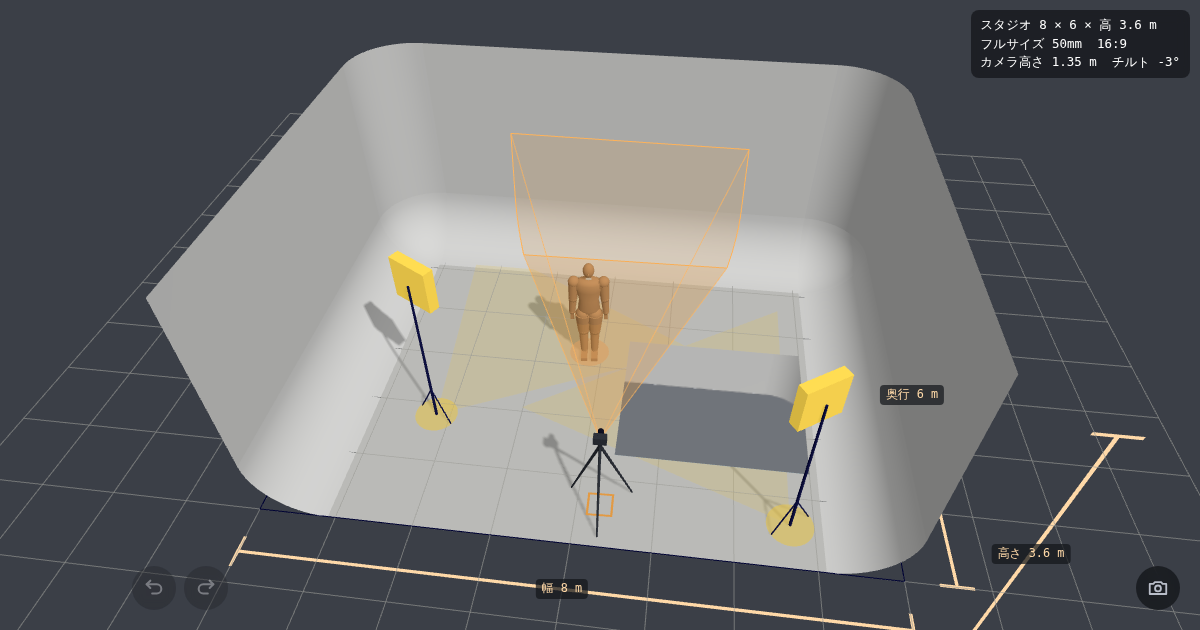
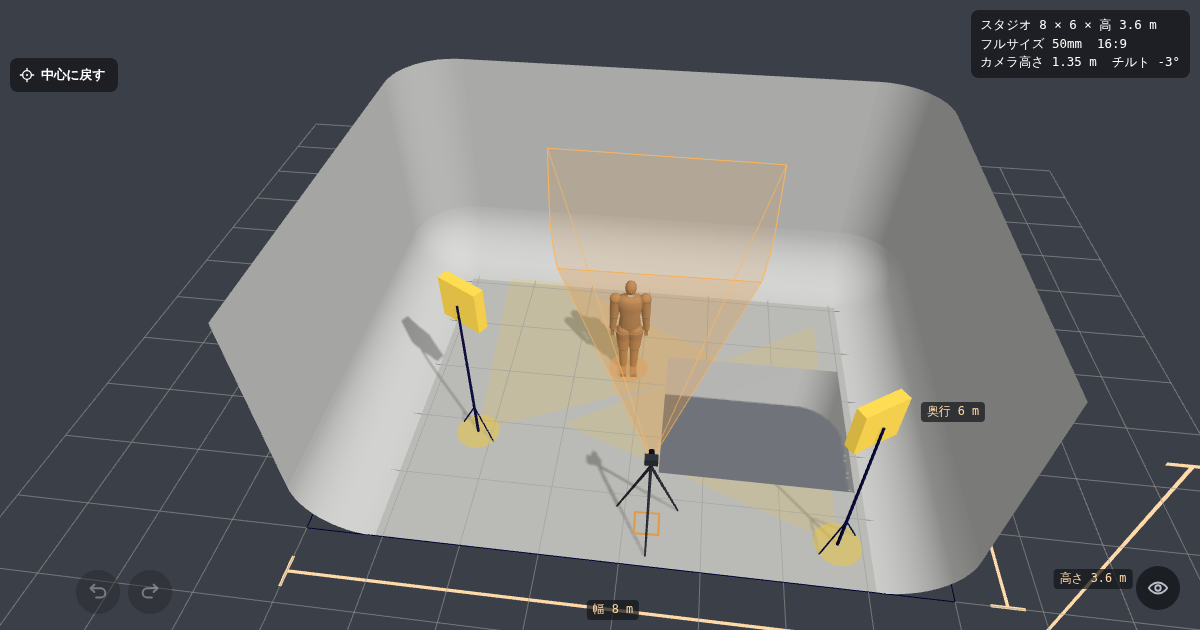
studio3d: 用紙の情報欄を小さく、つまむ拡大の直し、角度の丸め、ほか
- 用紙の情報欄を 6.2pt・行間 1.35 まで詰め、右の欄を 90mm → 70mm に。
  そのぶん図が大きくなる。PDF_AREA と .pviews の flex は同じ値であること。
- **スマホでつまんでも拡大できない**の原因は長押しだった。1 本目を置いた
  550ms 後にコンテキストメニューが開き、pointers.clear() でつまむ操作が
  丸ごと消えていた。2 本目が来たら長押しを取り消す。
- 拡大縮小を zoomAt() に集約し、**指（カーソル）の下の点を動かさない**ように
  した。画面の真ん中を軸にすると、端をつまんだ瞬間に見ていたところが枠の外へ
  逃げる。ホイールも同じ関数を通す。
- カメラの角度表示を小数第 1 位までに（パネル・右上・用紙）。
- スタジオのプリセットを一回り大きく（6×5×3.5 / 10×8×4.5 / 15×12×6）。
  起動時の既定も 10×8×4.5 に。6 畳の部屋は実寸なのでそのまま。
- 左下の＋と設定を同じ大きさで縦並びにし、下が設定。取り消し・やり直しは
  設定の横へ。
- **消したあと別の行のゴミ箱が赤くなったまま**を修正。行が繰り上がって
  カーソルの下に来ただけなので、一覧を組み直した直後はホバーを切り、
  指かカーソルが動いてから効かせる。指で触る端末では最初から出さない。

テスト追加: ゴミ箱が赤くならないこと、ボタンの並び、プリセットの寸法、
角度が小数第 1 位まで、物の上に指を置いたままでも 2 本指で拡大できること。
辺ごとの寸法の確認は、ラベルが押し合わない素の場面へ移した。全 238 通過。

Claude-Session: https://claude.ai/code/session_015cBXVLcRAFnFdCR6hxRHzV

diff --git a/index.html b/index.html
@@ -44,7 +44,7 @@ html,body{height:100%;margin:0;overflow:hidden}
 body{background:var(--bg);color:var(--ink);font-family:"Noto Sans JP","Hiragino Sans","Yu Gothic",sans-serif;font-size:15px;line-height:1.5}
 #app{position:fixed;inset:0;display:grid;grid-template-columns:340px 1fr;grid-template-rows:1fr}
 #view{position:relative;background:var(--viewport);touch-action:none;overflow:hidden}
-#view canvas{display:block;width:100%;height:100%}
+#view canvas{display:block;width:100%;height:100%;touch-action:none}
 #view.drop::after{content:"ここに落とすと取り込みます";position:absolute;inset:8px;border:3px dashed var(--accent);border-radius:10px;display:flex;align-items:center;justify-content:center;color:#fff;background:rgba(20,22,26,.55);font-weight:700;z-index:6;pointer-events:none}
 #panel{background:var(--panel);border-right:1px solid var(--rule);display:flex;flex-direction:column;min-height:0;z-index:2}
 /* パネルは一回り小さく。rem と px が混在しているので、まとめて縮めるのは zoom がいちばん確実 */
@@ -62,12 +62,12 @@ body{background:var(--bg);color:var(--ink);font-family:"Noto Sans JP","Hiragino 
 #pipbtn.on{background:var(--accent);color:#fff}
 #pipbtn:focus-visible{outline:3px solid #fff;outline-offset:2px}
 body.viewer #pipbtn{display:none}
-#undobtn,#redobtn{position:absolute;bottom:20px;z-index:4;width:44px;height:44px;border:0;border-radius:50%;background:rgba(20,22,26,.8);color:#fff;cursor:pointer;display:flex;align-items:center;justify-content:center;padding:0;backdrop-filter:blur(6px)}
-#undobtn{left:132px}#redobtn{left:184px}
+#undobtn,#redobtn{position:absolute;bottom:16px;z-index:4;width:44px;height:44px;border:0;border-radius:50%;background:rgba(20,22,26,.8);color:#fff;cursor:pointer;display:flex;align-items:center;justify-content:center;padding:0;backdrop-filter:blur(6px)}
+#undobtn{left:76px}#redobtn{left:128px}
 #undobtn:disabled,#redobtn:disabled{opacity:.32;cursor:default}
 #undobtn:focus-visible,#redobtn:focus-visible{outline:3px solid #fff;outline-offset:2px}
 body.viewer #undobtn,body.viewer #redobtn{display:none}
-#gear{position:absolute;left:80px;bottom:20px;z-index:4;width:44px;height:44px;border:0;border-radius:50%;background:rgba(20,22,26,.8);color:#fff;cursor:pointer;display:flex;align-items:center;justify-content:center;padding:0;backdrop-filter:blur(6px)}
+#gear{position:absolute;left:12px;bottom:12px;z-index:4;width:52px;height:52px;border:0;border-radius:50%;background:rgba(20,22,26,.8);color:#fff;cursor:pointer;display:flex;align-items:center;justify-content:center;padding:0;backdrop-filter:blur(6px)}
 #gear.on{background:var(--accent)}
 #gear:focus-visible{outline:3px solid #fff;outline-offset:2px}
 body.viewer #gear{display:none}
@@ -118,7 +118,10 @@ input[type=color]{width:56px;height:44px;border:1px solid var(--rule);border-rad
 .itemrow.hidden-item .eye{color:var(--muted)}
 .itemrow .ico{flex:0 0 36px;border:1px solid var(--rule);background:var(--panel);color:var(--ink2);border-radius:8px;cursor:pointer;display:flex;align-items:center;justify-content:center;padding:0}
 .itemrow .ico.on{color:var(--accent);border-color:var(--accent)}
-.itemrow .ico.trash:hover{color:var(--danger)}
+/* 消したあと行が繰り上がると、カーソルの下に来た別の行のゴミ箱が赤くなり、
+   「関係ない行が消える寸前」に見える。指で触る端末では触ったあとずっと赤い。
+   一覧を組み直したらいったん切り、指やカーソルが動いてから効かせる */
+@media (hover: hover){ body:not(.nohover) .itemrow .ico.trash:hover{color:var(--danger)} }
 .itemrow .grip{flex:0 0 20px;display:flex;align-items:center;justify-content:center;color:var(--muted);cursor:grab;touch-action:none;user-select:none;-webkit-user-select:none}
 .itemrow.dragging{opacity:.5}
 .itemrow.dropbefore{box-shadow:0 -3px 0 -1px var(--accent)}
@@ -157,7 +160,8 @@ input[type=color]{width:56px;height:44px;border:1px solid var(--rule);border-rad
 #pip .bar button:hover{background:rgba(255,255,255,.18)}
 #pip .body{position:absolute;left:0;right:0;top:24px;bottom:0;cursor:grab}
 #pip .grip{position:absolute;right:0;bottom:0;width:26px;height:26px;cursor:nwse-resize;background:linear-gradient(135deg,transparent 50%,rgba(255,255,255,.8) 50%);border-bottom-right-radius:4px}
-#addfab{position:absolute;left:12px;bottom:12px;z-index:4;width:56px;height:56px;border:0;border-radius:50%;background:var(--accent);color:#fff;font-size:1.9rem;line-height:1;cursor:pointer;box-shadow:0 4px 16px rgba(0,0,0,.4);display:flex;align-items:center;justify-content:center;padding:0}
+/* ＋ と設定は同じ大きさで縦並び。下が設定 */
+#addfab{position:absolute;left:12px;bottom:74px;z-index:4;width:52px;height:52px;border:0;border-radius:50%;background:var(--accent);color:#fff;font-size:1.8rem;line-height:1;cursor:pointer;box-shadow:0 4px 16px rgba(0,0,0,.4);display:flex;align-items:center;justify-content:center;padding:0}
 #addfab:active{transform:translateY(1px)}
 #addfab:focus-visible{outline:3px solid #fff;outline-offset:2px}
 body.viewer #addfab{display:none}
@@ -234,8 +238,8 @@ label.f2 textarea{resize:vertical;line-height:1.5}
 .pbody{flex:1;display:flex;gap:5mm;min-height:0;padding-top:3mm}
 .paper.portrait .pbody{flex-direction:column;gap:3mm}
 .pviews{display:grid;grid-template-columns:1fr 1fr;gap:4mm}
-.paper.landscape .pviews{flex:0 0 186mm}
-.paper.portrait .pviews{flex:0 0 146mm}
+.paper.landscape .pviews{flex:0 0 206mm}
+.paper.portrait .pviews{flex:0 0 156mm}
 .pv{position:relative;border:.8pt solid #9ca3af;background:#eceef1;overflow:hidden;cursor:move;touch-action:none}
 .pv[data-pane="cam"]{cursor:default}
 .pvin{position:absolute;inset:0;transform-origin:center center}
@@ -248,15 +252,15 @@ label.f2 textarea{resize:vertical;line-height:1.5}
 .pside{flex:1;display:flex;flex-direction:column;gap:3mm;min-width:0}
 .paper.portrait .pside{flex:1;flex-direction:row;gap:4mm}
 .pbox{border:.8pt solid #9ca3af;display:flex;flex-direction:column;min-height:0}
-.pbox>h4{margin:0;font-size:7pt;font-weight:700;letter-spacing:.1em;background:#e5e7eb;color:#374151;padding:1mm 2mm;border-bottom:.4pt solid #9ca3af}
-.pbox .inner{padding:1.5mm 2mm;font-size:8pt;line-height:1.55}
-.prow{display:flex;justify-content:space-between;gap:3mm;border-bottom:.3pt dotted #b6bcc6;padding:.5mm 0}
+.pbox>h4{margin:0;font-size:5.8pt;font-weight:700;letter-spacing:.08em;background:#e5e7eb;color:#374151;padding:.7mm 1.5mm;border-bottom:.4pt solid #9ca3af}
+.pbox .inner{padding:1mm 1.5mm;font-size:6.2pt;line-height:1.35}
+.prow{display:flex;justify-content:space-between;gap:2mm;border-bottom:.3pt dotted #b6bcc6;padding:.25mm 0}
 .prow:last-child{border-bottom:0}
 .prow .k{color:#6b7280;white-space:nowrap}
 .prow .v{font-weight:700;text-align:right}
-.pmemo{flex:1;min-height:18mm}
-.pmemo .inner{flex:1;white-space:pre-wrap;font-size:8pt;line-height:2.1;
-  background-image:repeating-linear-gradient(#fff 0 calc(2.1em - .3pt), #dfe3e9 calc(2.1em - .3pt) 2.1em)}
+.pmemo{flex:1;min-height:14mm}
+.pmemo .inner{flex:1;white-space:pre-wrap;font-size:6.6pt;line-height:2.2;
+  background-image:repeating-linear-gradient(#fff 0 calc(2.2em - .3pt), #dfe3e9 calc(2.2em - .3pt) 2.2em)}
 .pfoot{flex:none;padding-top:1.5mm;font-size:6.5pt;color:#9ca3af;display:flex;justify-content:space-between}
 @media print{
   html,body{overflow:visible !important;height:auto !important;background:#fff !important}
@@ -278,7 +282,10 @@ label.f2 textarea{resize:vertical;line-height:1.5}
 @media (max-width:760px){
   #addpop,#namedlg{align-items:flex-end;padding:0}
   #addpop .pop,#namedlg .pop{width:100%;max-height:80vh;border-radius:14px 14px 0 0}
-  #addfab{width:52px;height:52px;font-size:1.7rem}
+  #addfab{width:48px;height:48px;font-size:1.6rem;bottom:68px}
+  #gear{width:48px;height:48px}
+  #undobtn,#redobtn{width:40px;height:40px;bottom:16px}
+  #undobtn{left:70px}#redobtn{left:118px}
   #app{grid-template-columns:1fr;grid-template-rows:1fr auto}
   body.folded:not(.viewer) #app{grid-template-rows:1fr}
   #panel{border-right:0;border-top:1px solid var(--rule);order:2;max-height:46vh}
@@ -331,7 +338,7 @@ label.f2 textarea{resize:vertical;line-height:1.5}
         <h2>オフライン</h2>
         <div class="row"><button class="btn" id="offlinebtn">オフラインに保存</button></div>
         <p class="hint" id="offlinestat">現場で圏外でも開けるよう、この端末に丸ごと控えます。人物と車のモデルを含めて 13 MB ほど。</p>
-        <p class="colophon">Studio Planner v1.7.0<br>© 2026 寺村太一</p>
+        <p class="colophon">Studio Planner v1.7.1<br>© 2026 寺村太一</p>
       </div>
     </div>
   </div>
@@ -440,9 +447,9 @@ import { clone as skeletonClone } from 'three/addons/utils/SkeletonUtils.js';   
 
 // ---------- data ----------
 const PRESETS = [
-  {id:'s', name:'小スタジオ 5×4×3 m', w:5, d:4, h:3, cove:{back:false,left:false,right:false}},
-  {id:'m', name:'中スタジオ 8×6×4 m（白ホリ 奥）', w:8, d:6, h:4, cove:{back:true,left:false,right:false}},
-  {id:'l', name:'大スタジオ 12×10×5 m（白ホリ 奥+左右）', w:12, d:10, h:5, cove:{back:true,left:true,right:true}},
+  {id:'s', name:'小スタジオ 6×5×3.5 m', w:6, d:5, h:3.5, cove:{back:false,left:false,right:false}},
+  {id:'m', name:'中スタジオ 10×8×4.5 m（白ホリ 奥）', w:10, d:8, h:4.5, cove:{back:true,left:false,right:false}},
+  {id:'l', name:'大スタジオ 15×12×6 m（白ホリ 奥+左右）', w:15, d:12, h:6, cove:{back:true,left:true,right:true}},
   {id:'r', name:'6 畳の部屋 3.6×2.7×2.4 m', w:3.6, d:2.7, h:2.4, cove:{back:false,left:false,right:false}},
   {id:'custom', name:'数値で入力'},
 ];
@@ -480,6 +487,7 @@ const clamp = (v,a,b) => Math.min(b, Math.max(a, v));
 // rotations live in -180..180 so a slider has zero in the middle
 const norm = a => { const n = ((a % 360) + 360) % 360; return n > 180 ? n - 360 : n; };
 const fmt = v => Number.isInteger(v) ? String(v) : v.toFixed(2).replace(/0$/,'');
+const a1 = v => Math.round((+v || 0) * 10) / 10;      // 角度は小数第 1 位まで
 
 let state = defaultState();
 let selectedId = null;
@@ -493,7 +501,7 @@ function defaultState(){
     {id:'c1', type:'camera', x:0, z:2.4, y:1.3, rot:180, pitch:-6, roll:0, sensor:'ff', focal:35, aspect:'16:9'},
   ]};
   return {meta:{project:'', cut:cut.name, memo:cut.memo, frames:cut.frames},
-          studio:{w:8,d:6,h:4,cove:{back:true,left:true,right:true}},
+          studio:{w:10,d:8,h:4.5,cove:{back:true,left:true,right:true}},
           activeCam:cut.activeCam, items:cut.items, cuts:[cut], cutIx:0};
 }
 // ---------- カット ----------
@@ -1681,17 +1689,51 @@ function fitOrtho(){
 // 平行投影の 3 面はカメラを平行に動かし、パースは注視点を動かす（カメラは
 // applyOrbit がそこから組み立てる）。ズームと見る角度には触らない。
 const PAN_LIMIT = () => Math.max(state.studio.w, state.studio.d) * 2;
+// 行き過ぎて迷子にならないよう、動かせる範囲を世界の 2 倍で止める
+function clampView(){
+  const lim = PAN_LIMIT(), c = v => clamp(v, -lim, lim);
+  orbit.target.set(c(orbit.target.x), c(orbit.target.y), c(orbit.target.z));
+  planCam.position.x = c(planCam.position.x); planCam.position.z = c(planCam.position.z);
+  frontCam.position.x = c(frontCam.position.x); frontCam.position.y = c(frontCam.position.y);
+  sideCam.position.z = c(sideCam.position.z); sideCam.position.y = c(sideCam.position.y);
+}
+// 画面の向きベクトル。パースは注視点まわりで持つ
+function screenAxes(){
+  const dir = new THREE.Vector3().subVectors(orbit.target, persCam.position).normalize();
+  const right = new THREE.Vector3().crossVectors(dir, new THREE.Vector3(0,1,0)).normalize();
+  return {right, up: new THREE.Vector3().crossVectors(right, dir).normalize()};
+}
+const persPPU = r => 2 * r * Math.tan(THREE.MathUtils.degToRad(persCam.fov/2)) / Math.max(1, H);
+const orthoPPU = c => (c.right - c.left) / c.zoom / Math.max(1, W);
+// **指（カーソル）の下の点を動かさずに拡大縮小する。** 画面の真ん中を軸にすると、
+// 端をつまんだ瞬間に見ていたところが枠の外へ逃げていき、スマホでは特に狙えない。
+function zoomAt(mx, my, apply){
+  if (mainView === 'cam'){ apply(); needRender = true; return; }
+  const ox = mx - W/2, oy = my - H/2;
+  if (mainView === 'pers'){
+    const before = persPPU(orbit.radius);
+    apply();
+    const d = before - persPPU(orbit.radius), ax = screenAxes();
+    orbit.target.addScaledVector(ax.right, ox*d).addScaledVector(ax.up, -oy*d);
+    clampView(); applyOrbit();
+  } else {
+    const cam = mainCam(), before = orthoPPU(cam);
+    apply();
+    const d = before - orthoPPU(cam);
+    if (mainView === 'plan'){ planCam.position.x += ox*d; planCam.position.z += oy*d; }
+    else if (mainView === 'front'){ frontCam.position.x += ox*d; frontCam.position.y -= oy*d; }
+    else { sideCam.position.z -= ox*d; sideCam.position.y -= oy*d; }
+    clampView(); fitOrtho();
+  }
+  needRender = true;
+}
 function panView(dx, dy){
   if (mainView === 'cam' || (!dx && !dy)) return;
   const lim = PAN_LIMIT();
   if (mainView === 'pers'){
-    const k = 2 * orbit.radius * Math.tan(THREE.MathUtils.degToRad(persCam.fov/2)) / Math.max(1, H);
-    const dir = new THREE.Vector3().subVectors(orbit.target, persCam.position).normalize();
-    const right = new THREE.Vector3().crossVectors(dir, new THREE.Vector3(0,1,0)).normalize();
-    const up = new THREE.Vector3().crossVectors(right, dir).normalize();
-    orbit.target.addScaledVector(right, -dx*k).addScaledVector(up, dy*k);
-    orbit.target.set(clamp(orbit.target.x, -lim, lim), clamp(orbit.target.y, -lim, lim), clamp(orbit.target.z, -lim, lim));
-    applyOrbit();
+    const k = persPPU(orbit.radius), ax = screenAxes();
+    orbit.target.addScaledVector(ax.right, -dx*k).addScaledVector(ax.up, dy*k);
+    clampView(); applyOrbit();
   } else {
     const cam = mainCam(), spu = (cam.right - cam.left)/cam.zoom/Math.max(1, W);
     const c = v => clamp(v, -lim, lim);
@@ -1815,7 +1857,7 @@ function updateInfo(){
   let t = `スタジオ ${s.w} × ${s.d} × 高 ${s.h} m`;
   if (ci){
     const eq = equiv(ci), many = cams().length > 1;          // the name only earns its place with more than one
-    t += `\n${many ? camName(ci) + '  ' : ''}${sensorName(ci)} ${ci.focal}mm${eq?` (換算 ${eq}mm)`:''}  ${ci.aspect}\nカメラ高さ ${ci.y.toFixed(2)} m  ${ci.pitch? `チルト ${ci.pitch}°`:''}`;
+    t += `\n${many ? camName(ci) + '  ' : ''}${sensorName(ci)} ${ci.focal}mm${eq?` (換算 ${eq}mm)`:''}  ${ci.aspect}\nカメラ高さ ${ci.y.toFixed(2)} m  ${ci.pitch? `チルト ${a1(ci.pitch)}°`:''}`;
   }
   el.textContent = t;
   document.getElementById('pipname').textContent = ci ? camName(ci) : 'カメラ';
@@ -1897,6 +1939,9 @@ canvas.addEventListener('pointerdown', e => {
   // 中ボタンは画面の移動。既定のオートスクロールは止める
   if (e.button === 1){ e.preventDefault(); cancelLongPress(); drag = {panView:true}; return; }
   if (pointers.size === 2){ const [a,b] = [...pointers.values()];
+    // 2 本目が来たら長押しは取り消す。放っておくと 550ms でメニューが開き、
+    // pointers.clear() でつまむ操作が丸ごと消える（スマホで拡大できない原因）
+    cancelLongPress();
     pinch = {d0:Math.hypot(a.x-b.x,a.y-b.y), f0: camItem()?.focal, z0: planCam.zoom, r0: orbit.radius,
              cx:(a.x+b.x)/2, cy:(a.y+b.y)/2};
     drag = null; return; }
@@ -1940,11 +1985,12 @@ canvas.addEventListener('pointermove', e => {
     const [a,b] = [...pointers.values()]; const d = Math.hypot(a.x-b.x,a.y-b.y); const k = d/pinch.d0;
     if (mainView === 'cam'){ const ci = camItem(); if (ci && !viewerMode){ ci.focal = clamp(Math.round(pinch.f0*k), 10, 400); refreshCam(ci); } }
     else {
-      if (mainView === 'pers') orbit.radius = clamp(pinch.r0/k, 1.5, 80);
-      else setOrthoZoom(clamp(pinch.z0*k, 0.3, 6));
-      // つまむのと同時に、2 本の指の真ん中が動いたぶんだけ画面も動かす
       const mx = (a.x+b.x)/2, my = (a.y+b.y)/2;
-      panView(mx - pinch.cx, my - pinch.cy);
+      zoomAt(mx, my, () => {                     // 指の真ん中の下にあるものは動かさない
+        if (mainView === 'pers') orbit.radius = clamp(pinch.r0/k, 1.5, 80);
+        else setOrthoZoom(clamp(pinch.z0*k, 0.3, 6));
+      });
+      panView(mx - pinch.cx, my - pinch.cy);     // 真ん中が動いたぶんは画面も動かす
       pinch.cx = mx; pinch.cy = my;
     }
     needRender = true; return;
@@ -1954,7 +2000,7 @@ canvas.addEventListener('pointermove', e => {
   if (drag.look){ lookDrag(dx, dy); return; }
   if (drag.handle){ dragHandle(drag, x, y); return; }
   if (drag.tilt){ const it = sel(); const a = tiltAngle(x, y, false); if (a === null) return;
-    it.pitch = a; refreshCam(it); needRender = true; return; }
+    it.pitch = a1(a); refreshCam(it); needRender = true; return; }
   if (drag.move){ const it = sel(); const p = floorHit(x,y); if (!p) return; setPos(it, p.x + drag.ox, p.z + drag.oz); updateItemTransform(it); needRender = true; return; }
   if (drag.rotate){ const it = sel(); const p = floorHit(x,y); if (!p) return; it.rot = norm(Math.round(THREE.MathUtils.radToDeg(Math.atan2(p.x-it.x, p.z-it.z)))); updateItemTransform(it); needRender = true; return; }
   if (drag.pan){ if (Math.hypot(x-pt.sx, y-pt.sy) > 4) drag.maybeDeselect = false;
@@ -1970,12 +2016,20 @@ function endPointer(e){
   if (pointers.size < 2) pinch = null;
   if (pointers.size === 0 && drag){
     if (drag.pan && drag.maybeDeselect) select(null);
-    else if (drag.move || drag.rotate || drag.look || drag.handle || drag.tilt){ const ci = camItem(); if (ci) ci.pitch = Math.round(ci.pitch); renderSel(); renderList(); saveHash(); }
+    else if (drag.move || drag.rotate || drag.look || drag.handle || drag.tilt){ const ci = camItem(); if (ci) ci.pitch = a1(ci.pitch); renderSel(); renderList(); saveHash(); }
     drag = null;
   }
 }
 canvas.addEventListener('pointerup', endPointer); canvas.addEventListener('pointercancel', endPointer);
-canvas.addEventListener('wheel', e => { e.preventDefault(); if (mainView==='cam'){ const ci=camItem(); if(ci && !viewerMode){ ci.focal = clamp(Math.round(ci.focal*(e.deltaY<0?1.1:0.9)),10,400); refreshCam(ci);} } else if (mainView==='pers'){ orbit.radius = clamp(orbit.radius*(e.deltaY<0?0.9:1.1), 1.5, 80); } else setOrthoZoom(clamp(planCam.zoom*(e.deltaY<0?1.1:0.9),0.3,6)); needRender = true; }, {passive:false});
+canvas.addEventListener('wheel', e => {
+  e.preventDefault();
+  const r = canvas.getBoundingClientRect();
+  zoomAt(e.clientX - r.left, e.clientY - r.top, () => {
+    if (mainView === 'cam'){ const ci = camItem(); if (ci && !viewerMode){ ci.focal = clamp(Math.round(ci.focal*(e.deltaY<0?1.1:0.9)), 10, 400); refreshCam(ci); } }
+    else if (mainView === 'pers') orbit.radius = clamp(orbit.radius*(e.deltaY<0?0.9:1.1), 1.5, 80);
+    else setOrthoZoom(clamp(planCam.zoom*(e.deltaY<0?1.1:0.9), 0.3, 6));
+  });
+}, {passive:false});
 // つまんだ辺だけが動き、向かい側の辺はその場に残る
 function startHandle(h){
   const it = sel();
@@ -2030,7 +2084,7 @@ function refreshCam(ci){ const o = itemObjs.get(ci.id); if (o){ const g = buildC
     else if (mode === 'resize'){ pip.w = clamp(start.pw + e.clientX - start.x, 120, W - pip.x); pip.h = clamp(start.ph + e.clientY - start.y, 90, H - pip.y); pip.user = true; layoutPip(); needRender = true; }
     else if (mode === 'look' && !viewerMode) lookDrag(dx, dy);
   });
-  const end = e => { pp.delete(e.pointerId); if (pp.size < 2) pin = null; if (pp.size === 0){ if (mode === 'look'){ const ci = camItem(); if (ci){ ci.pitch = Math.round(ci.pitch); renderSel(); saveHash(); } } if (mode === 'move' || mode === 'resize') savePip(); mode = null; } };
+  const end = e => { pp.delete(e.pointerId); if (pp.size < 2) pin = null; if (pp.size === 0){ if (mode === 'look'){ const ci = camItem(); if (ci){ ci.pitch = a1(ci.pitch); renderSel(); saveHash(); } } if (mode === 'move' || mode === 'resize') savePip(); mode = null; } };
   pipEl.addEventListener('pointerup', end); pipEl.addEventListener('pointercancel', end);
   pipEl.addEventListener('wheel', e => { e.preventDefault(); e.stopPropagation(); const ci = camItem(); if (ci && !viewerMode){ ci.focal = clamp(Math.round(ci.focal*(e.deltaY<0?1.1:0.9)),10,400); refreshCam(ci); renderSel(); saveHash(); needRender = true; } }, {passive:false});
   pipEl.addEventListener('dblclick', () => setMain('cam'));
@@ -2080,7 +2134,7 @@ function bindPopInput(win, cv){
     if (!last || viewerMode) return;
     lookDrag(e.clientX - last.x, e.clientY - last.y); last = {x:e.clientX, y:e.clientY};
   });
-  const up = () => { if (last){ const ci = camItem(); if (ci && !viewerMode){ ci.pitch = Math.round(ci.pitch); renderSel(); saveHash(); } } last = null; };
+  const up = () => { if (last){ const ci = camItem(); if (ci && !viewerMode){ ci.pitch = a1(ci.pitch); renderSel(); saveHash(); } } last = null; };
   cv.addEventListener('pointerup', up); cv.addEventListener('pointercancel', up);
   cv.addEventListener('wheel', e => {
     e.preventDefault(); const ci = camItem(); if (!ci || viewerMode) return;
@@ -2323,7 +2377,7 @@ function renderCuts(){
     const del = icon('ico trash', 'このカットを削除', TRASH, () => deleteCut(i));
     row.prepend(grip); row.append(b, del); el.appendChild(row);
   });
-  renderViewerCuts();
+  renderViewerCuts(); suppressHover();
 }
 function renderViewerCuts(){
   const el = document.getElementById('viewercuts'); el.innerHTML = '';
@@ -2402,6 +2456,9 @@ function openCutMenu(px, py){
   ctxEl.style.left = Math.max(6, Math.min(px, innerWidth - r.width - 6)) + 'px';
   ctxEl.style.top = Math.max(6, Math.min(py, innerHeight - r.height - 6)) + 'px';
 }
+// 一覧を組み直した直後は、カーソルの下にたまたま来ただけの行を光らせない
+function suppressHover(){ document.body.classList.add('nohover'); }
+addEventListener('pointermove', () => document.body.classList.remove('nohover'), {passive:true});
 function renderList(){
   const el = document.getElementById('items'); el.innerHTML = '';
   {                                              // the room itself, edited like anything else
@@ -2442,6 +2499,7 @@ function renderList(){
     p.textContent = 'まだ何も置いていません。＋ から選んでください。';
     el.appendChild(p);
   }
+  suppressHover();
 }
 // ---------- list: drag to reorder ----------
 // つまみを掴んで上下。並び順は「カメラ 1／カメラ 2」の番号にもそのまま出る
@@ -2574,8 +2632,8 @@ function renderSel(){
     if (here) h += `<div class="row"><button class="btn ${it.upFix?'on':''}" data-set="upFix" data-val="${it.upFix?'':'1'}">横倒しを起こす</button></div>`;
   } else if (it.type === 'camera'){
     h += `<h2>アングル</h2>`;
-    h += range('y','高さ',0.2,4,0.05,it.y,'m') + range('rot','パン',-180,180,1,rotShown(it),'°')
-       + range('pitch','チルト',-45,45,1,it.pitch,'°') + range('roll','ロール',-45,45,1,it.roll || 0,'°');
+    h += range('y','高さ',0.2,4,0.05,it.y,'m') + range('rot','パン',-180,180,1,a1(rotShown(it)),'°')
+       + range('pitch','チルト',-45,45,1,a1(it.pitch),'°') + range('roll','ロール',-45,45,1,a1(it.roll || 0),'°');
     h += `<p class="hint">パンは 0° で奥向き。図面のリングでも回せます。</p>`;
     h += `<h2>センサー</h2>` + btns('sensor', Object.entries(SENSORS).map(([k,v]) => [k, v.name]), it.sensor);
     if (it.sensor === 'custom'){
@@ -2607,7 +2665,7 @@ function renderSel(){
   h += `<h2>寸法表示</h2><div class="row">${dimBtn('own', ownDim, dimOn(it))}`
     + (it.type === 'camera' ? dimBtn('dimWall', '壁まで', it.dimWall === true)
                             : dimBtn('dimCam', 'カメラまで', it.dimCam === true)) + `</div>`;
-  if (it.type !== 'camera') h += range('rot','向き',-180,180,1,rotShown(it),'°');
+  if (it.type !== 'camera') h += range('rot','向き',-180,180,1,a1(rotShown(it)),'°');
   if (it.type === 'person' && personModel(it) && POSES){
     const pb = (id, label, on) => `<button class="${on ? 'on' : ''}" data-pose="${id}" title="${esc(label)}" aria-label="${esc(label)}">` +
       `<img src="models/thumbs/pose-${id}.webp" alt="" width="200" height="200"><small>${esc(label)}</small></button>`;
@@ -3519,7 +3577,7 @@ let pdfPanes = ['plan','side','pers','cam'];
 try { const v = JSON.parse(localStorage.getItem('studio3d.panes')||'null');
   if (Array.isArray(v) && v.length) pdfPanes = PDF_VIEWS.map(([k]) => k).filter(k => v.includes(k)); } catch {}
 // 用紙の図の領域（mm）。ここに収まるように 1 枚ぶんの大きさを割り出す
-const PDF_AREA = {landscape:[186, 177], portrait:[194, 146]}, PDF_GAP = 4, PDF_PXMM = 12;
+const PDF_AREA = {landscape:[206, 177], portrait:[194, 156]}, PDF_GAP = 4, PDF_PXMM = 12;
 function paneLayout(){
   const [VW, VH] = PDF_AREA[orient];
   const list = PDF_VIEWS.filter(([v]) => pdfPanes.includes(v));
@@ -3568,8 +3626,8 @@ function cameraRows(){
   h += prow('画面比率', ci.aspect);
   h += prow('水平画角', `${THREE.MathUtils.radToDeg(hfov(ci)).toFixed(1)}°`);
   h += prow('カメラ高さ', `${ci.y.toFixed(2)} m`);
-  h += prow('上下の向き', `${ci.pitch}°`);
-  h += prow('パン', `${rotShown(ci)}°（0° で奥）`);
+  h += prow('上下の向き', `${a1(ci.pitch)}°`);
+  h += prow('パン', `${a1(rotShown(ci))}°（0° で奥）`);
   h += prow('立ち位置', `左右 ${ci.x >= 0 ? '+' : ''}${ci.x.toFixed(2)} / 前後 ${ci.z >= 0 ? '+' : ''}${ci.z.toFixed(2)} m`);
   const back = state.studio.d/2 + ci.z;
   h += prow('奥壁まで', `${back.toFixed(2)} m`);

diff --git a/sw.js b/sw.js
@@ -6,7 +6,7 @@
 //  2. 人物と車のモデル（合計 12 MB ほど）は勝手に取りに行かない。共有パネルの
 //     「オフラインに保存」を押した人ぶんだけ、使ったものを溜める。
 //  3. 版を上げるときは VERSION を変える。古い殻のキャッシュは activate で捨てる。
-const VERSION = 'v1.7.0';
+const VERSION = 'v1.7.1';
 const SHELL = 'sp-shell-' + VERSION;   // 起動に要るもの。版ごとに作り直す
 const RUNTIME = 'sp-runtime';          // 使ったものを溜める場所。版をまたいで残す
 

diff --git a/CLAUDE.md b/CLAUDE.md
@@ -295,6 +295,16 @@ HalfFloat かつマルチサンプルのターゲットを使うので、`Uint8A
   1 m の箱が外側 1 m まで選べていた。`pick()` は `isLine` / `isPoints` /
   `userData.noHit` を読み飛ばす。**箱に線を足すときはここを思い出すこと。**
 
+### 拡大縮小は「指（カーソル）の下」を軸に
+
+`zoomAt(mx, my, apply)` を通す。画面の真ん中を軸にすると、端をつまんだ瞬間に
+見ていたところが枠の外へ逃げていき、**スマホでは狙ったところを拡大できない**。
+つまむ操作もホイールも同じ関数を通している。
+
+**2 本目の指が来たら長押しを取り消すこと**（`cancelLongPress()`）。これが無いと
+550 ms でコンテキストメニューが開き、`pointers.clear()` でつまむ操作が丸ごと
+消える。「スマホで拡大縮小がうまくできない」の正体はこれだった。
+
 ### 画面の移動と「中心に戻す」
 
 **中ボタンのドラッグ**、または**2 本指のスワイプ**（つまむのと同時に効く）で画面を動かす。
@@ -408,6 +418,14 @@ HalfFloat かつマルチサンプルのターゲットを使うので、`Uint8A
 **中の板に稜線を描かないこと**（`panel(..., true)`）。外板の内側と重なって
 z 争いを起こし、外から線が透けて見える。既定色は合板の薄茶（`#d8c4a0`）。
 
+### 一覧のホバーは、組み直した直後は切る
+
+行を消すと下の行が繰り上がり、**カーソルの下に来ただけの別の行のゴミ箱が赤くなる**。
+「関係ない行が消える寸前」に見えるし、指で触る端末では触ったあとずっと赤いままになる。
+`renderList()` / `renderCuts()` の最後で `suppressHover()`（`body.nohover`）を立て、
+**指かカーソルが動いてから**効かせる。ホバーの規則そのものも
+`@media (hover: hover)` の中に入れてある。
+
 ### ロック・複製・並べ替え・名前
 
 右クリック（スマホは 550 ms の長押し）で「名前を変更／ロック／複製／削除」。
@@ -496,6 +514,9 @@ PDF は `#papers` の中に `.paper` を並べる。1 カット 1 枚で、
   切り取りで、% で置いてある寸法ラベルが絵からずれる。`PDF_AREA` の mm から
   1 枠ぶんの mm を出して `captureView()` に渡している。
 - 0 枚は作らせない（最後の 1 枚は外せない）。
+- **情報欄は小さく、枠は狭く。** 図が主役なので、右の欄は 6.2pt・行間 1.35 まで
+  詰めてある。`PDF_AREA` の幅（横 206mm）と CSS の `.pviews{flex}` は**必ず同じ値**に
+  すること。ずれると図が枠の比と合わなくなり、寸法ラベルが絵からずれる。
 - **`[data-pane]` を全部まとめて拾わない。** 用紙の中の図も `.pv[data-pane]` を
   持っているので、`.pmbar [data-pane]` に絞ること。
 
